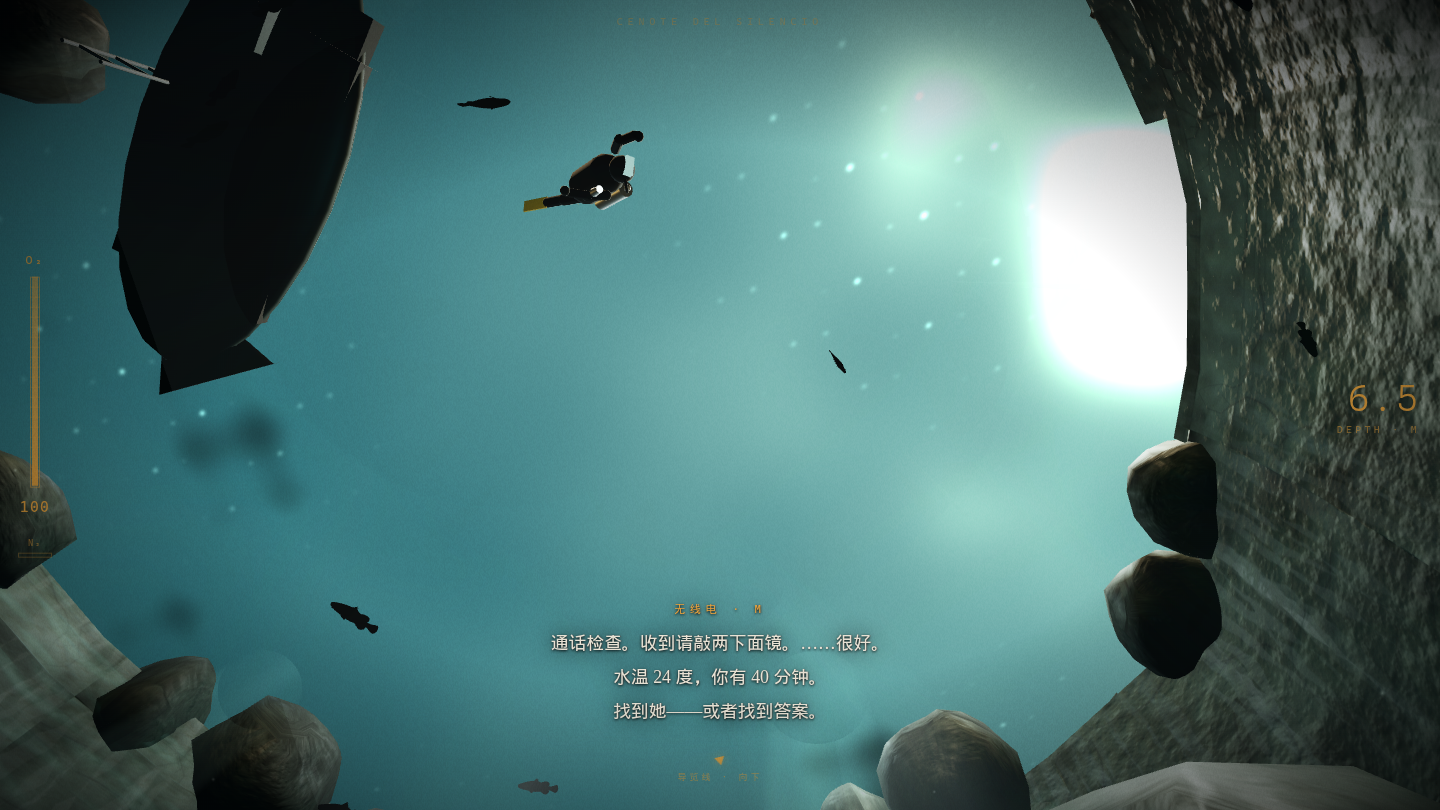
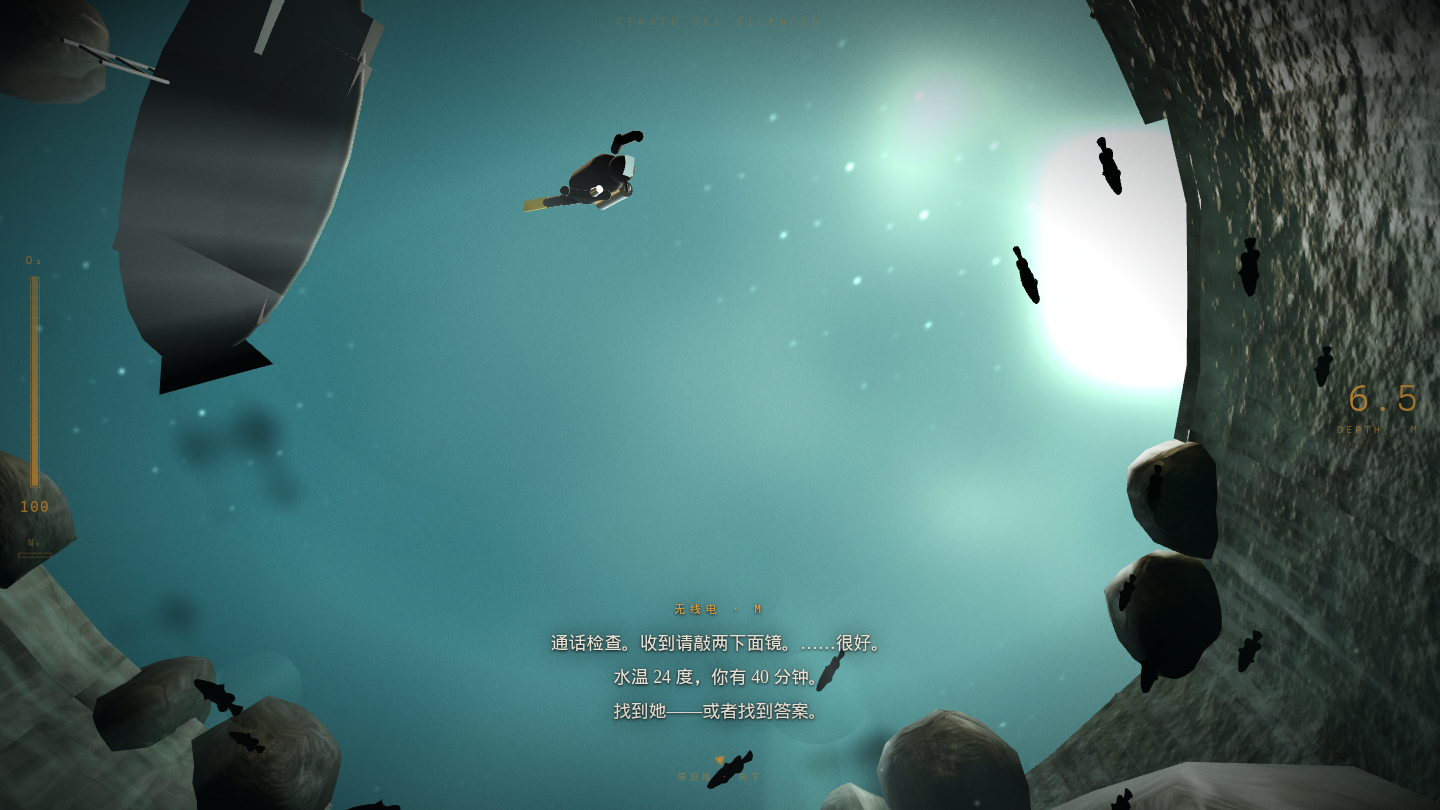
feat(M4-L8): 暗区可读性专项——奇虾随身双灯(轮廓+腹下生物光,对视窗提亮但保克制)、黑井呼吸幽光(井口发光膜+井筒光柱9s脉动+两级下沉光点)、深渊补光/曝光提读性、沉船提灯增强；shots新增AXIS/MARKPOS机位类型修怼墙构图,复位不重传送防剧情钩子打歪机位,截图前隐藏瞬态字幕保回归确定性；flow+sim全绿

diff --git a/src/game/Landmarks.ts b/src/game/Landmarks.ts
@@ -26,6 +26,8 @@ export class Landmarks {
   private altarGems: THREE.Mesh[] = [];
   private haloMats: THREE.MeshBasicMaterial[] = [];
   private brokenLineEnd: THREE.Mesh | null = null;
+  /** M4-L8 黑井呼吸幽光（膜+柱）：缓慢脉动的不祥光 */
+  private pitBreath: THREE.MeshBasicMaterial[] = [];
   /** M4-L5 距离剔除簇：雾外的地标集合整组隐藏（省 drawcall 与 overdraw；无遮挡剔除的补偿） */
   private cullClusters: { obj: THREE.Object3D; center: THREE.Vector3; r2: number }[] = [];
 
@@ -569,7 +571,7 @@ export class Landmarks {
     flame.position.y = 0.34;
     lantern.add(flame);
     lantern.position.set(0.4, 0.6, -3.9);
-    const lanternLight = new THREE.PointLight(0x66d89a, 14, 12, 1.8);
+    const lanternLight = new THREE.PointLight(0x66d89a, 22, 16, 1.8);
     lanternLight.position.y = 0.34;
     lantern.add(lanternLight);
     cave.zoneLights.push(lanternLight);
@@ -750,15 +752,41 @@ export class Landmarks {
     // 深渊冷蓝补光（让大厅轮廓可读，压抑但不致盲黑）
     const { t0, t1 } = cave.zoneRange('abyss');
     const { p: hallC } = cave.frameAt(0, (t0 + t1) / 2);
-    const fill = new THREE.PointLight(0x24485a, 90, 100, 1.3);
+    const fill = new THREE.PointLight(0x24485a, 130, 100, 1.3);
     fill.position.set(hallC.x, hallC.y + 8, hallC.z);
     cave.zoneLights.push(fill);
     this.group.add(fill);
     // 井口幽蓝上照光（深井在"发光"的错觉——它不该发光）
-    const pitGlow = new THREE.PointLight(0x16404e, 22, 30, 1.5);
+    const pitGlow = new THREE.PointLight(0x16404e, 48, 34, 1.5);
     pitGlow.position.set(pc.x, pc.y - 3, pc.z);
     cave.zoneLights.push(pitGlow);
     pg.add(pitGlow);
+    // 呼吸的幽光（M4-L8）：井口发光膜 + 井筒内加色光柱——黑井从「一块黑」变成
+    // 「往下看能看见光、却看不见底」的不祥奇观（fog:false 让它在深渊雾里也远远可见）
+    const breathDisc = new THREE.MeshBasicMaterial({
+      color: 0x1e5866, transparent: true, opacity: 0.16, fog: false,
+      blending: THREE.AdditiveBlending, depthWrite: false, side: THREE.DoubleSide,
+    });
+    const membrane = new THREE.Mesh(new THREE.CircleGeometry(4.6, 28), breathDisc);
+    membrane.rotation.x = -Math.PI / 2;
+    membrane.position.set(pc.x, pc.y - 1.2, pc.z);
+    pg.add(membrane);
+    this.pitBreath.push(breathDisc);
+    const breathCol = new THREE.MeshBasicMaterial({
+      color: 0x17444f, transparent: true, opacity: 0.1, fog: false,
+      blending: THREE.AdditiveBlending, depthWrite: false, side: THREE.DoubleSide,
+    });
+    const column = new THREE.Mesh(new THREE.CylinderGeometry(3.2, 4.4, 16, 20, 1, true), breathCol);
+    column.position.set(pc.x, pc.y - 8.5, pc.z);
+    pg.add(column);
+    this.pitBreath.push(breathCol);
+    // 井筒内两级下沉光点：越深越暗——「有底」的错觉被故意留在半路
+    for (const [dy, inten] of [[-8, 26], [-15, 12]] as [number, number][]) {
+      const deep = new THREE.PointLight(0x123a46, inten, 20, 1.6);
+      deep.position.set(pc.x, pc.y + dy, pc.z);
+      cave.zoneLights.push(deep);
+      pg.add(deep);
+    }
     this.group.add(pg);
     this.registerCull(pg, pc, 85);
   }
@@ -921,5 +949,11 @@ export class Landmarks {
     }
     // 断线头摆动
     if (this.brokenLineEnd) this.brokenLineEnd.rotation.y = Math.sin(time * 0.7) * 0.18;
+    // 黑井幽光呼吸（周期 ~9s：慢到刚好让人怀疑是不是自己眼花）
+    if (this.pitBreath.length) {
+      const b = 0.5 + Math.sin(time * 0.7) * 0.5;
+      this.pitBreath[0].opacity = 0.1 + b * 0.12;
+      this.pitBreath[1].opacity = 0.06 + b * 0.08;
+    }
   }
 }

diff --git a/src/game/Ancient.ts b/src/game/Ancient.ts
@@ -25,6 +25,7 @@ export class Ancient {
   private eyeGlows: THREE.Sprite[] = [];
   private photoMat: THREE.PointsMaterial;
   private rim: THREE.PointLight;
+  private under: THREE.PointLight;
   private prevTan = new THREE.Vector3(0, 0, 1);
 
   constructor(cave: Cave, scene: THREE.Scene) {
@@ -32,12 +33,12 @@ export class Ancient {
       color: 0x6a3428,
       roughness: 0.55,
       metalness: 0.08,
-      emissive: 0x160806,
+      emissive: 0x1e0d08,
     });
     const belly = new THREE.MeshStandardMaterial({
       color: 0x8a6a52,
       roughness: 0.6,
-      emissive: 0x14100a,
+      emissive: 0x1c160e,
     });
     this.eyeMat = new THREE.MeshStandardMaterial({
       color: 0x1a2a1c,
@@ -159,9 +160,9 @@ export class Ancient {
     this.photoMat = new THREE.PointsMaterial({
       map: particleSprite(),
       color: 0x8fe0e8,
-      size: 0.42,
+      size: 0.58,
       transparent: true,
-      opacity: 0.65,
+      opacity: 0.75,
       depthWrite: false,
       blending: THREE.AdditiveBlending,
       sizeAttenuation: true,
@@ -169,9 +170,13 @@ export class Ancient {
     this.group.add(new THREE.Points(phGeo, this.photoMat));
 
     // 冷色轮廓光：让它在黑水里"被看见但看不清"
-    this.rim = new THREE.PointLight(0x3a6a78, 90, 42, 1.4);
+    this.rim = new THREE.PointLight(0x3a6a78, 150, 60, 1.4);
     this.rim.position.set(0, 3.5, 0);
     this.group.add(this.rim);
+    // 腹下冷青反光：横越大厅段离开井口辉光后，剪影仍能从下方被"生物光"托出（M4-L8）
+    this.under = new THREE.PointLight(0x2f7a86, 90, 48, 1.5);
+    this.under.position.set(0, -2.8, 1.5);
+    this.group.add(this.under);
 
     // ---------- 巡游路径（井中升起 → 横越 → 回沉） ----------
     const pc = cave.pitCenter;
@@ -252,9 +257,11 @@ export class Ancient {
         eye.lookAt(world.add(dir));
       }
     }
-    // 侧线荧光沿身体缓慢呼吸
-    this.photoMat.opacity = 0.5 + Math.sin(time * 2.2) * 0.2 + (gaze ? 0.25 : 0);
-    this.rim.intensity = 70 + Math.sin(time * 1.3) * 22;
+    // 侧线荧光沿身体缓慢呼吸；对视窗口随身灯提亮——"被看的一眼"必须可读，
+    // 但保持「看得见看不清」的克制（M4-L8：全亮读作展示模型，半亮才是怪物）
+    this.photoMat.opacity = 0.55 + Math.sin(time * 2.2) * 0.2 + (gaze ? 0.3 : 0);
+    this.rim.intensity = (gaze ? 150 : 105) + Math.sin(time * 1.3) * 26;
+    this.under.intensity = (gaze ? 95 : 70) + Math.sin(time * 1.7) * 18;
 
     if (k >= 1) {
       this.playing = false;

diff --git a/src/game/Game.ts b/src/game/Game.ts
@@ -33,7 +33,7 @@ const ZONE_ENV: Record<ZoneName, { fog: number; den: number; exp: number }> = {
   halo: { fog: 0x0a1d1c, den: 0.05, exp: 0.9 },
   wreck: { fog: 0x061418, den: 0.044, exp: 0.9 },
   collapse: { fog: 0x040f13, den: 0.062, exp: 0.86 },
-  abyss: { fog: 0x02090e, den: 0.024, exp: 0.84 },
+  abyss: { fog: 0x02090e, den: 0.024, exp: 0.88 },
   chimney: { fog: 0x05161e, den: 0.04, exp: 0.94 },
 };
 

diff --git a/docs/WORKFLOW.md b/docs/WORKFLOW.md
@@ -188,6 +188,7 @@
 | L5 | 2026-08-26 03:55 | 04:35 | 40m | 性能专项：①灯光预算封顶——区域光距离过滤后按距排序只开最近 10 盏（mobile 6）、道具辉光最近 6 盏（前向渲染每盏可见点光都进片元循环）；②地标簇距离剔除——蝙蝠气室/卤水层(云面+枯枝+菌席)/沉船/祭坛/光之烛台/井口组/旁道标记/窥视缝 8 个簇按 50~85m 半径整组启停（无遮挡剔除的补偿，雾外整组不画）；③生态按距节流——鱼群>45m、浮游>60m、水母>55m 时每 3~4 帧才刷行为与实例矩阵，气泡帘恒定半帧率+dt 补偿，端足类距离粗判直接跳过；④自适应 DPR——帧率 EMA<34 持续 3s 阶梯降 12%（下限 0.6），>56 持续 8s 回升 8%，`__dd.adapt()` 可关（无头截图脚本已全部关闭防降糊）；⑤`__dd.stats()` 指标快照。逐区实测（headless 1440×810）：drawcalls 24~350、tris 55~70 万、可见灯 3~13/38；跨区抽查无剔除突跳。 |
 | L6 | 2026-08-26 04:35 | 04:50 | 15m | 生态互动+复盘工具：①自然观察手记系统——7 类生物（鱼群/海鲢/盲鳚/盲螯虾/桨足类/水螅水母/蝙蝠）首次近距（2.6~7m 分级）触发一次性教学字幕（科学诚实口吻+「自然手记 N/7」计数），0.6s 节流检测、写字板打开时暂停、一次只弹一条；②三结局统计行加入手记计数，鼓励生态探索重玩；③`__dd.notes()` 查已见手记、`__dd.report()` 一键复盘（模式/阶段/用时/深度/氧氮/写字板/遗物/手记/到访分区支线/减压状态）。无头验证：水母 2.4m/盲螯虾 1.5m 处均触发入账，report 字段齐全；flow-test 三结局+sim-test 五场景全绿（结局图因新增手记统计行更新）。踩坑：传送触发的剧情写字板挡住手记检测（slateOpen 早退），验证脚本需「关板→留 0.6s+ 检测窗→板再弹则重复」循环而非单次关板 |
 | L7 | 2026-08-26 04:50 | 05:55 | 65m | 英雄镜头 R1（天光井/光之厅主攻）：①Snell 窗重写——地平环带+紧致日盘（pow260）+彩色边缘散射+波纹式闪斑（低频斑块门控高频闪点，消除均匀网点感），水面盘半径 12.5→34 修视线越界；②井筒净空柱——buildGeometry/buildShellGeometry 对池心半径 5.4m、-5.5m 以上的管壁四边形挖井成真正垂直井筒，井缘领圈石 ×24+水线唇石 ×18 遮锯齿，浅段崩落岩缩小 42%+嵌壁；③光之厅光瀑——裂隙旁移光柱簇（塔与光柱分离构图）、光柱轴向衰减修仰视白幕、漂浮尘埃 ×260、洞底光池+反弹补光、雾密度 0.034→0.028+曝光 1.04 提读性、塔尖辉光 85/聚光 430 把塔从剪影里雕出；④船底剪影平滑（船艏 4→10 段+龙骨壳放大盖住方肚）；⑤卤水枯枝真分叉（基部枢轴+折点关节+2~3 叉）；沉船船壳板残片 ×2+提灯 14/顶光 55；⑥标题机位重构图（井壁+光爆+船剪影三分）；`__dd.ray(o,t)` 任意射线探测+`pick()` 跳过透明体积。踩坑：GLSL 保留字 `patch` 命名静默编译失败整面水消失；Sprite.raycast 需 rc.camera 否则空指针；shots.cjs 竖井机位改 POS 型（绝对坐标+世界注视点+关板后复位）进净空柱。产出：shots/hero-{title,shaft,hall}.png + before-m4l7/ 前后对比 7 张。遗留（L8 处理）：sight-gaze/z8-pit 全黑不可读、z5 卤水枯枝贴图接缝、z6 沉船太暗 |
+| L8 | 2026-08-26 05:55 | 06:44 | 49m | 英雄镜头 R2（暗区可读性专项）：①目击演出打光——奇虾随身轮廓光 150/60m+新腹下冷青反光 90/48m（横越段离开井口辉光后剪影仍被生物光托出），对视窗口提至 150/95（第一版 210/140 全亮读作展示模型，回调 30% 保「看得见看不清」），侧线荧光点 0.42→0.58；②黑井呼吸幽光——井口加色发光膜(r4.6)+井筒内光柱(r3.2~4.4×16m)双 additive 层 9s 周期脉动（fog:false 深渊雾里远远可见），pitGlow 22→48、井筒内 -8/-15m 两级下沉光点（「有底」的错觉被故意留在半路）；③深渊补光 90→130+曝光 0.84→0.88（大形体可读又不失绝望）；④沉船提灯 22/16m；⑤shots.cjs 新增 AXIS（管轴两点+偏移取景，修 z3/z7 固定 yaw 怼墙）与 MARKPOS（地标相对机位，z6 沉船侧视肋骨+浮标构图/z8 黑井正上方俯瞰）类型。踩坑：复位重叫 dd.zone 会重触发剧情钩子把机位打歪（复位只 move+lookWorld）；6.8m 井口偏移卡进井缘巨石；瞬态字幕（手记/无线电）与截图时序耦合破坏回归确定性（AXIS/MARKPOS 截图前隐藏 #subtitle）。flow 三结局+sim 五场景全绿 |
 
 ## 4. 技术工作流
 
